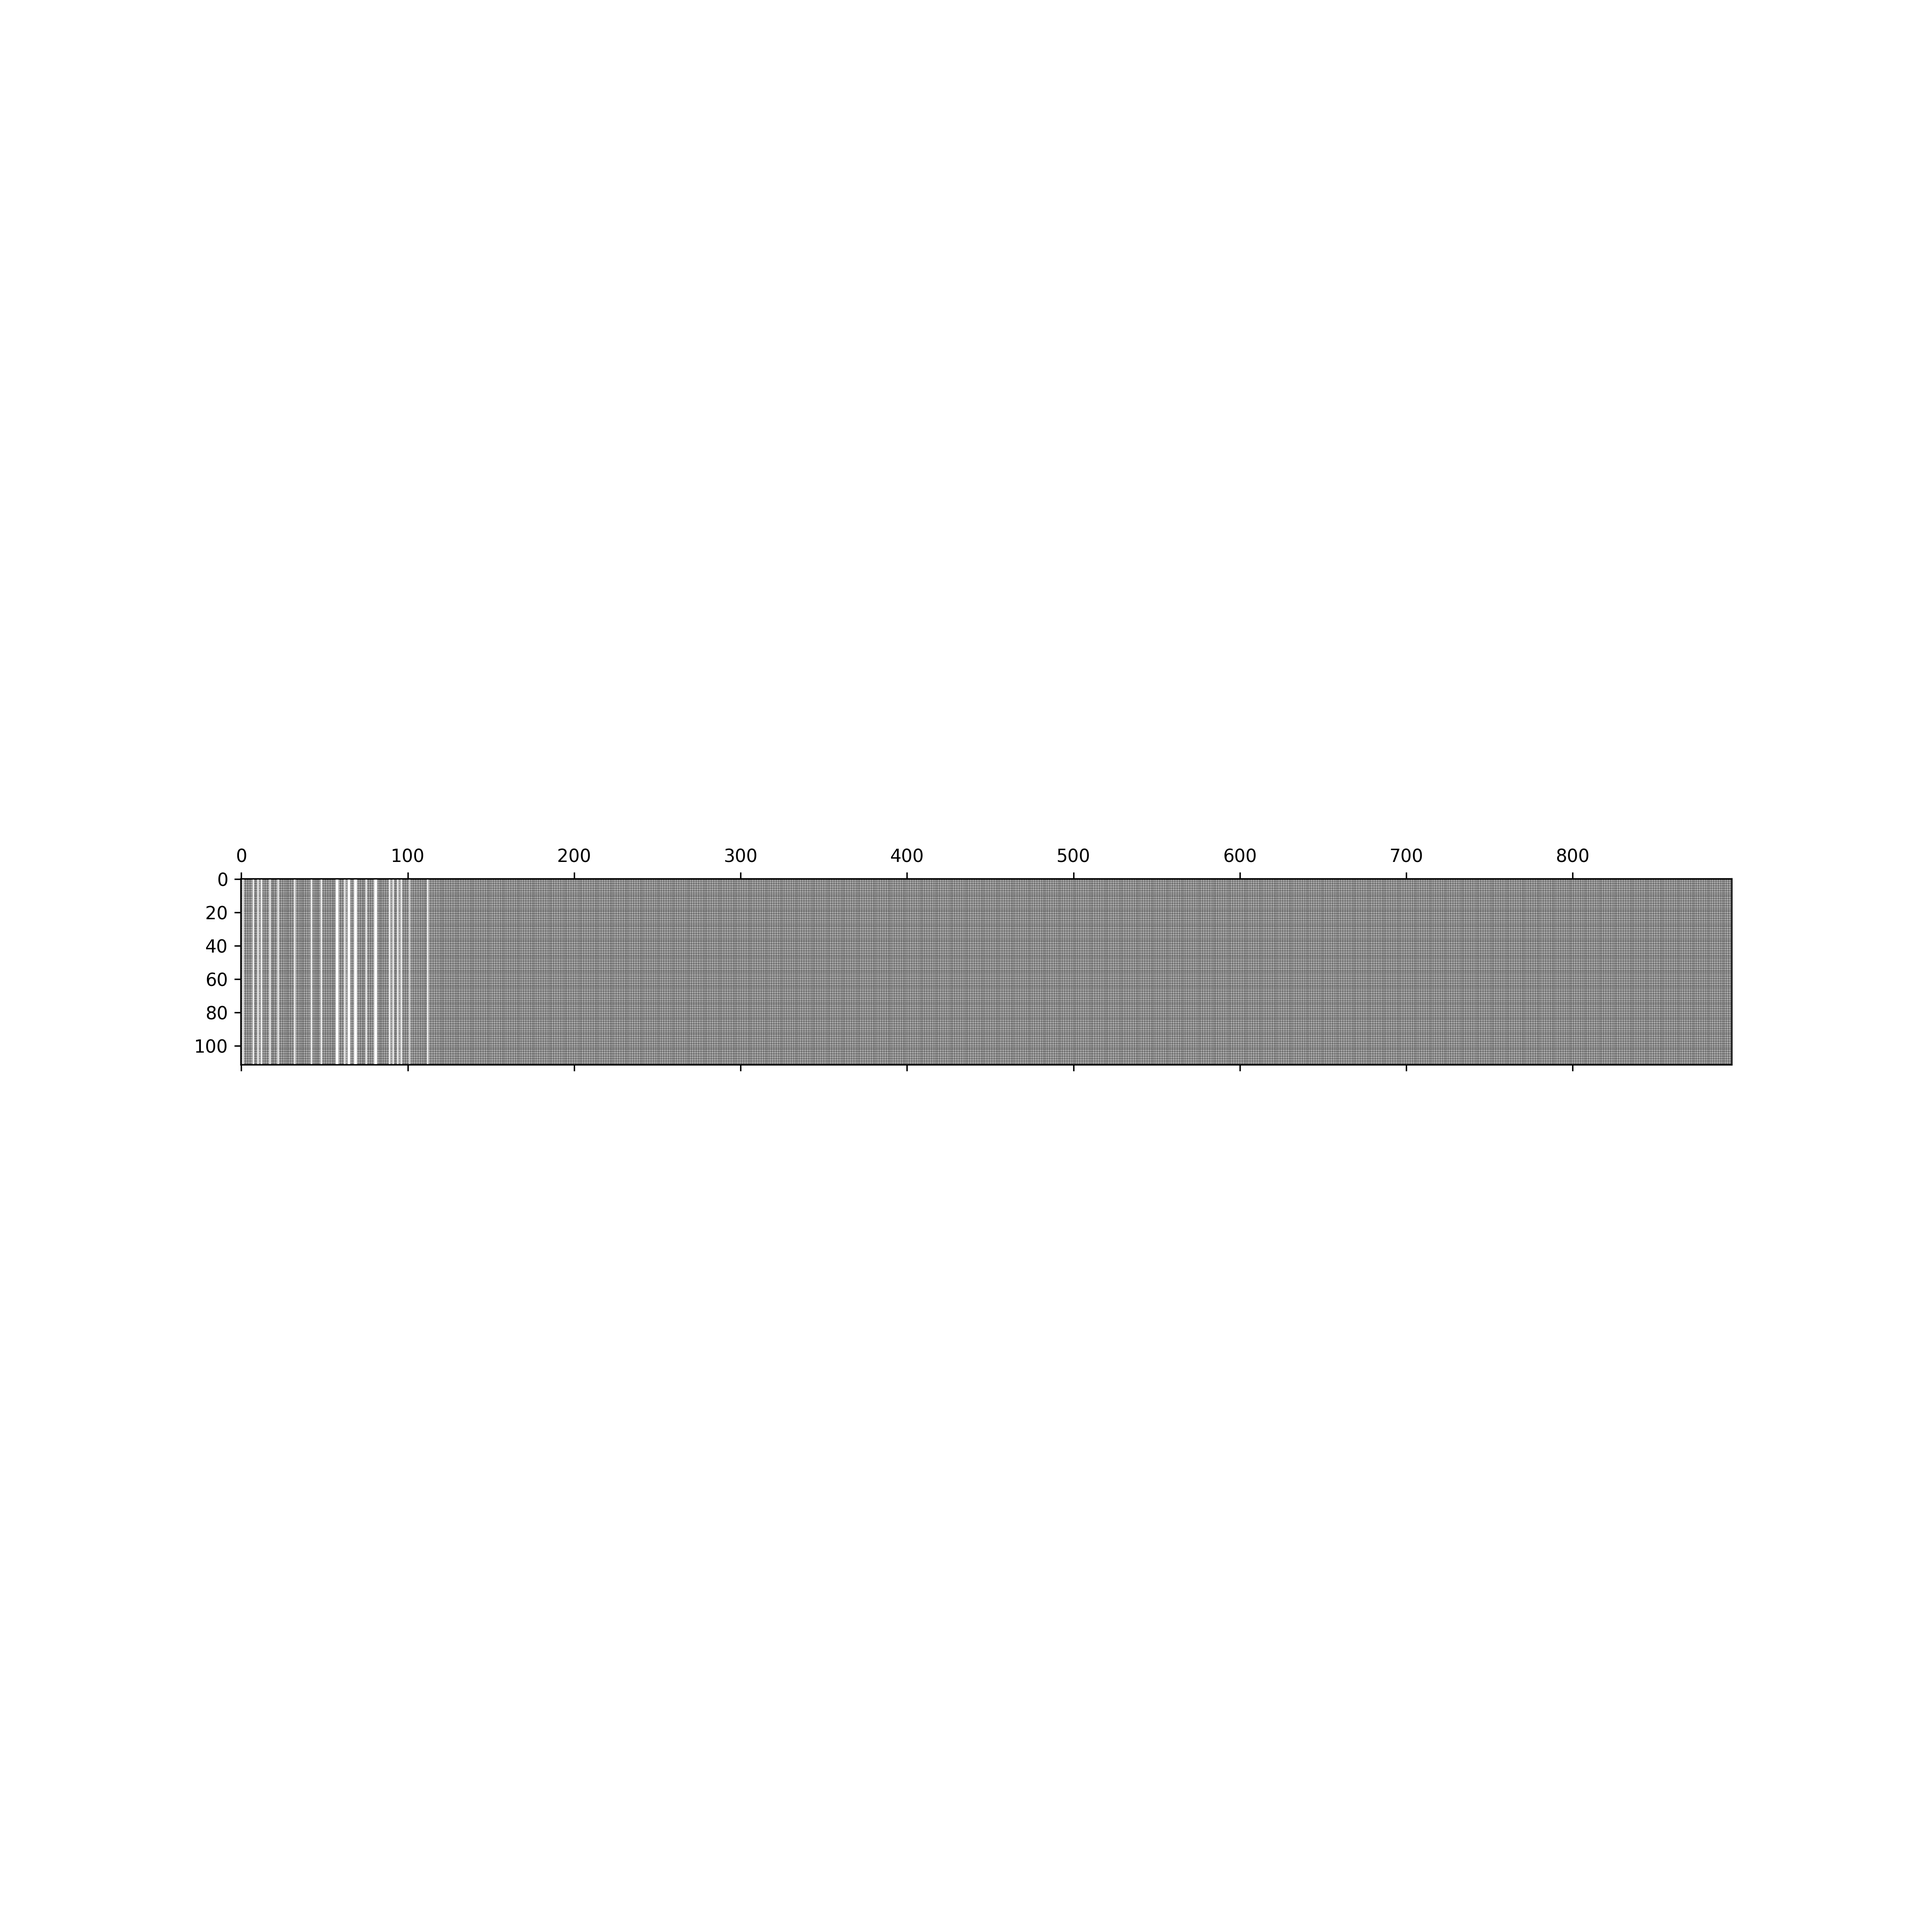
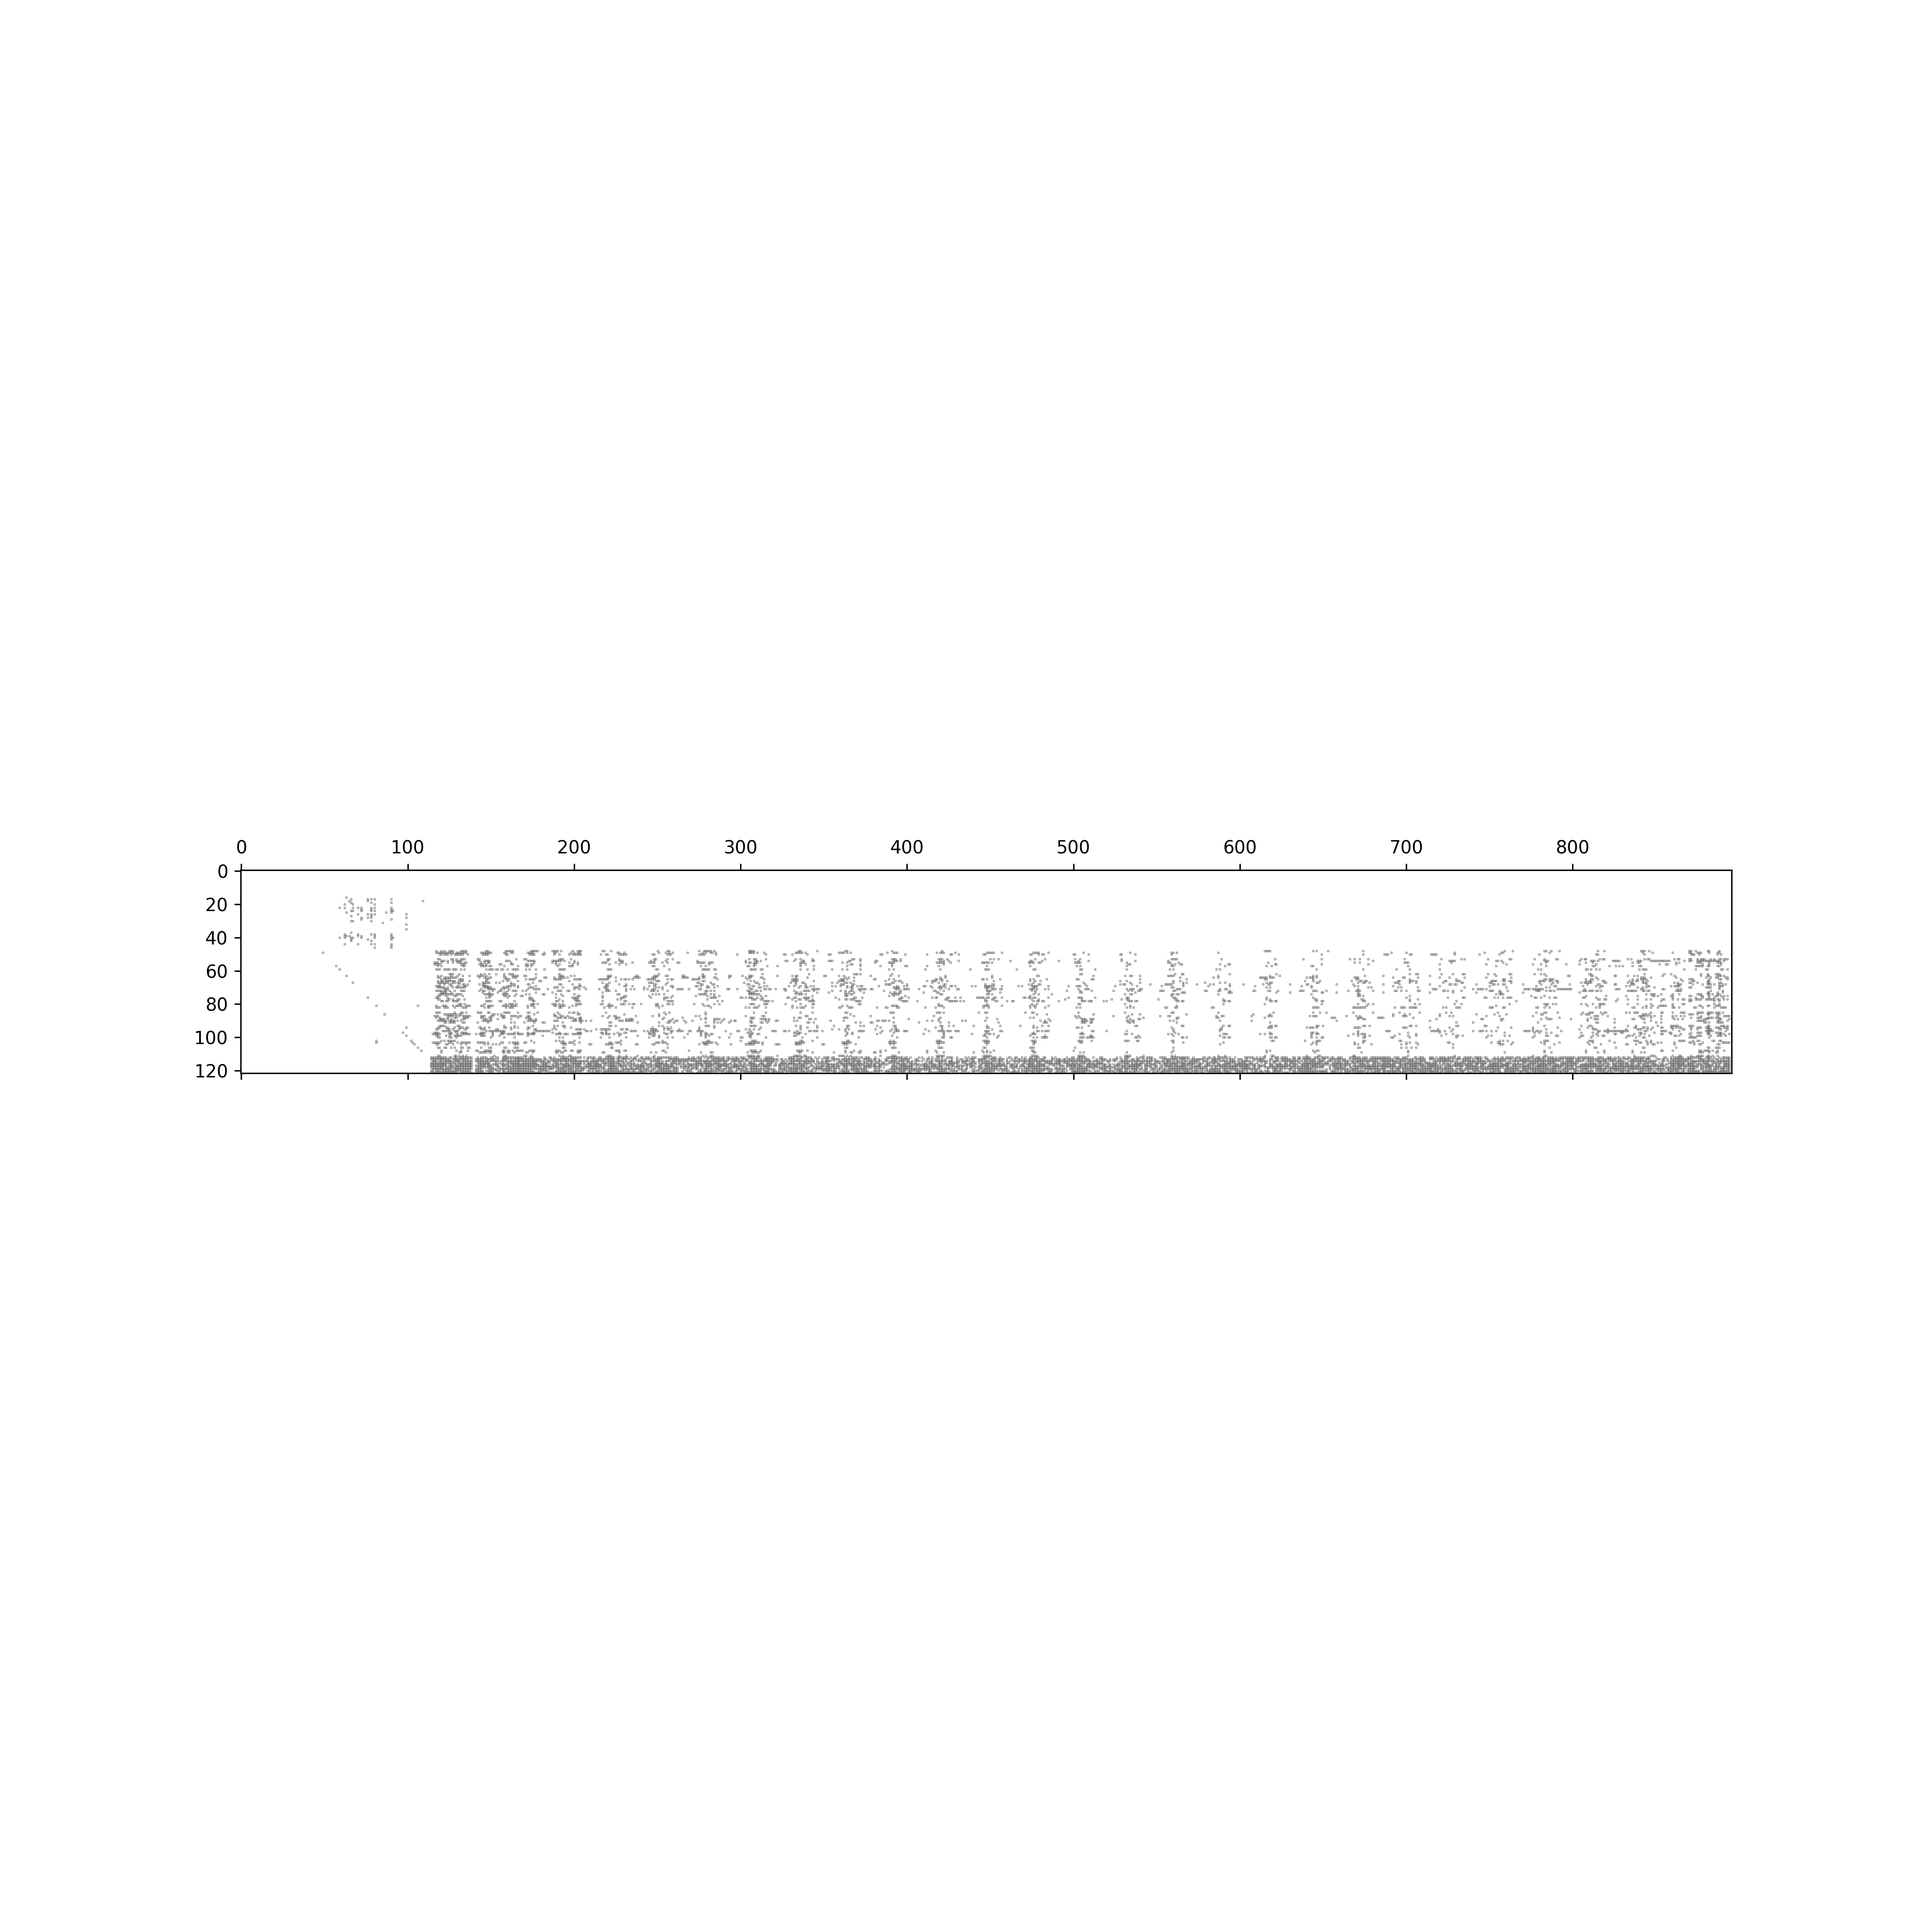
prunning states matrix

Changed region(s): [[0.0933, 0.4356, 0.9022, 0.56]]

diff --git a/main.py b/main.py
@@ -10,7 +10,7 @@ from tqdm import tqdm
 import joblib
 import os.path as osp
 import numpy as np
-
+import pickle as pkl
 class ProgressParallel(joblib.Parallel):
     def __call__(self, *args, **kwargs):
         with tqdm() as self._pbar:
@@ -96,20 +96,41 @@ def main() -> None:
         torch.save(ex_model.state_dict(), args.output_path + "explicit_model.pt")
     print("Building state matrix ...")
     states, shape = build_SIM_matrix(cfg, ex_model, train_loader, device)
-    print("Training implicit ...")
     
-    A,B,C,D = SIM_training(cfg.implicit, states, shape)
+    if cfg.implicit.evaluate:
+        print("Loading optimized weight matrices")
+        with open("results/states.pkl", "rb") as f:
+            unpickler = pkl.Unpickler(f)
+            states_load = unpickler.load()
+            states_load = states_load["states"]
+            A, B, C, D = states_load
+            
+            print(np.sum((np.abs(D.numpy())<1e-4).astype(int))/np.prod(D.shape))
+            print(np.mean(C.cpu().detach().numpy()))
+            print(np.max(C.cpu().detach().numpy()))
+    else:
+        print("Training implicit ...")
+        A,B,C,D = SIM_training(cfg.implicit, states, shape)
+        import pickle
+        with open(osp.join(args.output_path, "states.pkl"), "wb") as f:
+            pickle.dump({"states": [A,B,C,D]}, f)
+    
+    #Prunning
+    B[np.abs(B)<1e-3] = 0
+    A[np.abs(A)<1e-4] = 0
+    # C = torch.zeros_like(C)
+    D[np.abs(D)<2e-8] = 0
+    #Evaluation both explicit and implicit models
+            
     import matplotlib.pyplot as plt
     plt.figure(figsize=(15,15), dpi=300)
-    plt.spy(torch.cat([A],dim=-1).numpy(), markersize=0.01, color='black')
+    M1 = torch.cat([A, B],dim=-1).numpy()
+    M2 = torch.cat([C, D],dim=-1).numpy()
+    M = np.concatenate([M1, M2], axis=0)
+    plt.spy(M, markersize=0.01, color='black')
     plt.savefig("states.png")
-    import pickle
-    with open(osp.join(args.output_path, "states.pkl"), "wb") as f:
-        pickle.dump({"states": [A,B,C,D]}, f)
-    #Evaluation both explicit and implicit models
-    
     evaluate(cfg.evaluation, [A,B,C,D], ex_model, test_loader, device)
-    evaluate(cfg.evaluation, [A,B,C,D], ex_model, train_loader, device)
+    # evaluate(cfg.evaluation, [A,B,C,D], ex_model, train_loader, device)
 
 if __name__ == "__main__":
     main()

diff --git a/evaluation.py b/evaluation.py
@@ -2,6 +2,10 @@ import torch
 import torch.nn as nn
 import torch.nn.functional as F
 from SIM.ImplicitModel import ImplicitModel
+import numpy as np
+
+def count_zeros(matrix):
+    return np.count_nonzero(matrix == 0)/np.prod(matrix.shape)*100
 
 def evaluate(cfg, weight_matrices, ex_model, test_loader, device):
     for method in cfg.baselines:
@@ -43,5 +47,13 @@ def evaluate(cfg, weight_matrices, ex_model, test_loader, device):
             print('Implicit model: Average loss: {:.4f}, Accuracy: {}/{} ({:.0f}%)'.format(
                 test_loss, correct, len(test_loader.dataset),
                 100. * correct / len(test_loader.dataset)))
+            print("Sparsity of A: {0:.2f}%".format(count_zeros(A)))
+            print("Sparsity of B: {0:.2f}%".format(count_zeros(B)))
+            print("Sparsity of C: {0:.2f}%".format(count_zeros(C)))
+            print("Sparsity of D: {0:.2f}%".format(count_zeros(D)))
+            M1 = torch.cat([A,B], dim=1)
+            M2 = torch.cat([C,D], dim=1)
+            M = torch.cat([M1,M2], dim=0)
+            print("Sparsity of M: {0:.2f}%".format(count_zeros(M)))
         else:
             raise NotImplementedError

diff --git a/analyze.py b/analyze.py
@@ -1,11 +1,16 @@
 import matplotlib.pyplot as plt
 import pickle as pkl
+import numpy as np
 
 with open("results/states.pkl", "rb") as f:
     unpickler = pkl.Unpickler(f)
     states = unpickler.load()
-A = states[0]
-plt.figure(figsize=(15,15), dpi=300)
-plt.spy(A.numpy(), markersize=0.01, color='black')
-
+    states = states["states"]
+B = states[0]
+plt.figure(figsize=(6,6), dpi=300)
+counts, bins = np.histogram(B.flatten(), bins=10000)
+sparsity = (B <1e-30).sum()/len(B.flatten())
+print("sparsity", sparsity)
+plt.stairs(counts, bins)
+plt.savefig("states.png")
 
